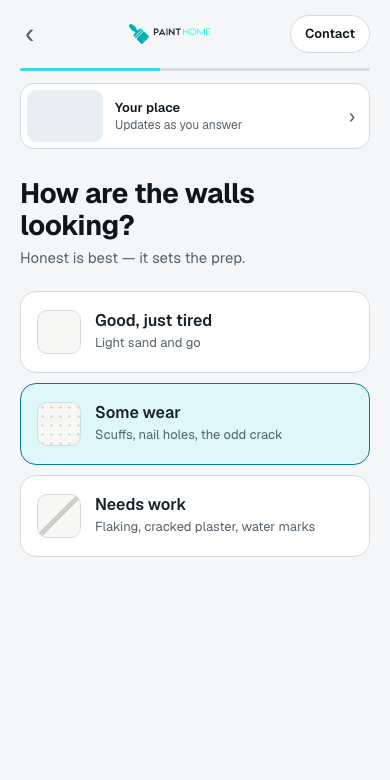
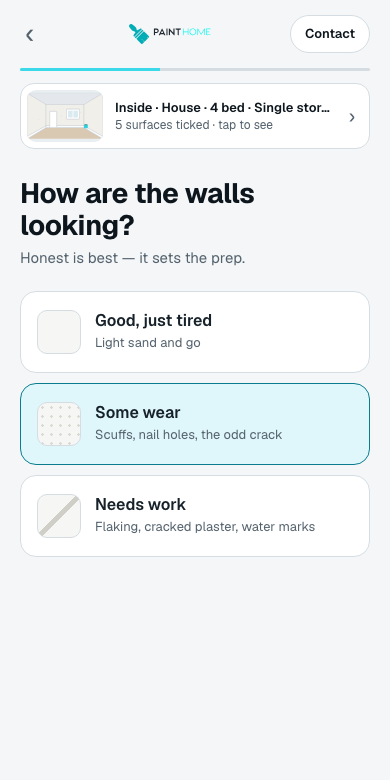
Wizard mobile v5 S3: the sweep test waits for the arrival sweep

Changed region(s): [[0.2769, 0.1231, 0.8308, 0.1846], [0.0923, 0.1538, 0.2462, 0.1846]]

diff --git a/e2e/customer-journey/wizard-mobile-v5-strip.spec.ts b/e2e/customer-journey/wizard-mobile-v5-strip.spec.ts
@@ -131,10 +131,10 @@ test.describe("Wizard mobile v5 — the live strip, thumbnail and roller (sessio
     });
     await open(page);
     await toSurfaces(page);
-    // everything ticked: every painted layer is fully in
+    // everything ticked: on arrival the painted layers sweep in (unpainted before this screen, §3.5), then sit fully in
     for (const k of ["walls", "ceilings", "skirting", "doors", "windows"]) {
       await expect(thumb(page).locator(`[data-surf='${k}']`)).toHaveAttribute("data-on", "true");
-      expect(await rectWidth(page, "wzm-thumb", k)).toBe(200);
+      await expect.poll(() => rectWidth(page, "wzm-thumb", k), { timeout: 3_000 }).toBe(200);
     }
     await page.getByTestId("ql-surface-ceilings").tap();
     await expect(page.getByTestId("wzm-sheet")).toHaveCount(0);

diff --git a/docs/briefs/estimator-v2-progress.md b/docs/briefs/estimator-v2-progress.md
@@ -68,6 +68,7 @@
 | M5 · S0 | Wizard mobile v5 — orientation (`docs/briefs/claude-code-brief-wizard-mobile-v5.md`, `build-plan-wizard-mobile-v5.md`, prototype `docs/mockups/painthome-wizard-v5.html`) | DONE | 27 Oct 2026 | branch `feat/wizard-mobile-v5` | none | — | 4150 → 4150 | D10–D14, D3, D4 open (defaults taken) | Brief §0 references, located: the step components are `app/wizard/WizardApp.tsx` (the quick look; served to customers by `app/estimate/page.tsx`, order from `lib/wizard/quick-look.ts stepsFor`); the gate is `app/wizard/Reveal.tsx`; `.wz-rv-dock` is `app/wizard/wizard.css` (base rule `display:none`, fixed bar under 900px); the floating pill is `app/wizard/TalkCard.tsx` (`.wz-talk`, a phone pill since 25 Oct); the sticky picture panel is `app/wizard/PictureCard.tsx` with `pictures/RoomPicture.tsx`, `HousePicture.tsx`, `OutsideHousePicture.tsx` (`.wz-side` / `.wz-pic`); the bigger-job condition is `lib/wizard/brand.ts paintHomeTier` (`wizard_policy.paintHomeCapCents`, $25,000) read by `Reveal.tsx handoffLocked`; brand tokens are `lib/wizard/brand.ts`, `brandServer.ts`, `lib/messaging/brand.ts`, `lib/marketing/brand.ts`; the zone-slot API is `lib/visits/wizard.ts wizardVisitSlots` → `lib/visits/book.ts offeredVisitWindows` / `bookWindow` (labels + window keys; `lib/visits/schedule.ts availability` holds the pre-set zone days); the messaging adapter's SMS call is `lib/messaging/send.ts sendSms`; the `crm_events` emitter is `lib/crm/events.ts logCrmEvent` (zod catalogue, `crm_log_event` RPC). The v1/v2 mobile briefs are NOT in the repo (superseded; v1 B1 is taken from v5's words). Built in a worktree off `~/pgp-painthome` — the main checkout's git hangs on iCloud. |
 | M5 · S1 | Skeleton: brand guard, desktop dock, events | DONE | 27 Oct 2026 | branch `feat/wizard-mobile-v5` (PR for Tom) | none | — | 4150 → 4158 | — | **(1) Brand.** `wizard_drafts.brand` / `estimates.brand` and the host → brand read already existed (20270300, `brandServer.ts`); the guard is `lib/wizard/brandGuard.test.ts`, a per-file ratchet over the literal "Paint Group" outside comments across `app/wizard`, `app/estimate`, `lib/wizard` (nine listed mentions, each with its reason). It found three leaks: the wizard chat panel (`ChatWidget.tsx` — aria-label and every reply labelled Paint Group), the assist chat's hand-off line (`AssistView.tsx`) and its panel (`AssistantWidget.tsx`) — all now take `brandName`, from `WizardApp`'s one `brandName` or the new `wizardBrandName()` in `brandServer.ts`. e2e `painthome-wizard.spec.ts` test 1 now asserts the WHOLE Paint Home price page names no Paint Group. **(2) The dock (v1 B1).** `.wz-rv-dock` lives inside the range card (`Reveal.tsx`): `display:flex` under the ladder on a laptop, still the fixed bottom bar under 900px; absent on the hand-off (27 Oct ruling). **(3) Events (brief §8).** Six new types in `lib/crm/events.ts` (`wizard_step_viewed`, `surface_toggled`, `gate_viewed`, `gate_cta_clicked`, `contact_opened`, `scope_viewed`) + `visit_booked` gains `step` / `from` / `sessionId`; the timeline labels them. The browser writes through `POST /api/wizard/event` (`lib/wizard/wizardEvents.ts` holds the schemas and `sendWizardEvent`; the session is the caller's open draft, pinned server-side, every event deduped per session so the rates count sessions, never taps; 204 always). Emitted from `WizardApp` (step viewed per quick step; `contact_opened` from the talk bar; the one-shot sessionStorage mark on the way to the scope), `Reveal` (`gate_viewed` on screen; every door → `gate_cta_clicked` exact / visit / call / message; Keep → save) and `ScopeEditor` (`scope_viewed {from:'gate'}` from the mark). The home dashboard's "Where estimates go" draws `funnel-rates` — gate → exact price and Contact → booked, in sessions, per shopfront when split — from `buildWizardRates` (`lib/reporting/metrics/funnel.ts`; slice `wizardEvents` read in `load.ts`). `surface_toggled` has no emitter yet (the chips are S3's); `visit_booked {from:'contact'}` is written in S5, so contact → booked reads 0 until then. Not verified in a browser (the worktree has no `.env.local`); the e2e proof is the PR run. **Next: S2, the mobile shell.** |
 | M5 · S2 | Mobile shell and screens (brief §2; plan Session 2) | BUILT | 28 Oct 2026 | branch `feat/wizard-mobile-v5-s2` (cut from `feat/wizard-mobile-v5`; PR for Tom) | none | — | 4158 → 4173 | ⚑ NEW D15: the details button — the brief enables Show my range on name + 10-digit mobile, but the server's gate (`/api/wizard/submit` `gate_required`) still demands an email, so the phone asks for all three until Tom changes that rule (a server + policy change, not S2's) | **The shell.** Under 768px (`WizardApp useMobile` — the `(max-width: 767px)` query through `useSyncExternalStore`, desktop until hydration) a customer's quick look is `app/wizard/MobileQuickLook.tsx`: back chevron · logo · **Contact** pill (opens the talk sheet — a call on Paint Home, a site visit on Paint Group — and writes `contact_opened {step: <screen>}`; the Contact sheet is S5), the 3px bar (`mobileProgress`: index / question screens × 55, the gate at 55), the live strip's PLACE (`.wzm-strip`, a static placeholder — S3 draws the thumbnail, the ribbon and the sheet in it), one question per screen, single choices advancing themselves 250ms after the tap (D10 default), a bottom bar (`.wzm-foot`, safe-area padded) only on surfaces, rooms, details and on a step the phone does not split. **The screens are data:** `lib/wizard/mobileScreens.ts mobileScreensFor(steps, quick)` lays what · property · beds · storeys · job · surfaces · rooms · colours · condition · living · details over `stepsFor()`, which stays the order of record — `page`, `quickNext` (validation, autosave tag, submit) and `quickBack` are untouched; the shell keeps which screen of the step is showing (state + `localStorage pg-wizard-mobile-screen-v1`, so a reload and Welcome back land on the same screen). Skip rules: storeys for a unit; an outside job is place → the exterior brief's screens AS THEY ARE (§2.4: home · paint · about · sides, through `QuickLook shell="mobile"` — no nav, no talk card, no Your job so far; the drawn house stays above the question, static, because it is the paint step's control until S3's strip takes over). Brief §2's Outside beds/storeys/surfaces screens are therefore NOT built — the exterior brief governs. **Answers (§2.6, data model unchanged):** `applyJobChoice` pre-ticks the surfaces (Doors, windows and trims = skirtings, doors, windows; the architraves chip offered unticked; Some rooms = the first two starter rooms), surface chips write `excluded` (+ `changing` via `changingForScope`), the three colour answers read/write the colour tiles (`colourChoiceOf` / `applyColourChoice`; bold is never asked on a phone), the rooms screen lists the STARTER names (so the submit finds them — "Landing & stairs", not the brief's "Stairwell, Upstairs hall") with Study / Ensuite / Garage as added rooms and the desktop's add-room control as "+ Another room". `wizard_step_viewed {step: <screen>, breakpoint: mobile}` per screen (WizardApp's per-step emitter stands down on a phone). **Gone on a phone:** the sticky picture panel and the floating pill (interior path); desktop renders none of this. **Specs:** `e2e/customer-journey/wizard-mobile-v5.spec.ts` (390 × 780, anonymous, painthome.localhost — §9 items 1–3, the Unit and Outside skip rules, Back, reload, the events, a range from the phone's screens); the e2e drive (`quickNext` / `driveNoPlanWizard`) walks the phone's screens when the shell is up (`onMobileShell`, `driveMobileQuickLook`); the four phone-width specs v5 supersedes were rewritten (wizard-phone-pictures now runs at 800px, the band's remaining home; exterior-v2-home's phone test; ui-refresh-steps' 390 and iPhone tests; address-handoff; painthome-wizard). `e2e/_look-wizard-desktop.spec.ts` (env `WIZARD_DESKTOP_SHOTS`) is the 1470px scope-guard screenshot tool. e2e on C1 (28 Oct): wizard-mobile-v5 4/4, exterior-v2-home 8/8, wizard-phone-pictures 1/1, address-handoff 3/3, ui-refresh-steps 44/44, r5-editor 4/5 (the range-width test is red at DESKTOP width, 17 → 17 → 17 — same list red on main's own e2e job, run 40571676667; not this change), painthome-wizard 2/3 — test 1 is red on main too: Paint Home's "Confirm my price. Book a call" is refused by `lib/visits/requests.ts` (`speakWithUsFor`, Paint Group's speak caps; the Paint Home tier is never consulted) — ⚑ a follow-up, not S2's. Desktop diff: seven 1470px screenshots (start · place · job · rooms · condition · gate · range) BYTE-IDENTICAL to `feat/wizard-mobile-v5` (c350d468), `e2e/_look-wizard-desktop.spec.ts` on both builds. Help: `docs/help/estimator/customer.md` "On a phone". **Next: S3, the live strip, thumbnail and roller** (the strip's place, `.wzm-strip` in `MobileQuickLook.tsx`, is where it goes; `surfacesTicked()` already counts for the ribbon). |
+| M5 · S3 | Live strip, thumbnail and roller (brief §3; plan Session 3) | BUILT | 28 Oct 2026 | branch `feat/wizard-mobile-v5-s3` (off main after #404; PR for Tom) | none | — | 4173 → UNIT_AFTER | — | **One picture, drawn twice.** `lib/wizard/mobilePicture.ts pictureStateFor(quick, outside, surfacesReached)` → `app/wizard/pictures/MobilePicture.tsx` in the strip (`app/wizard/MobileStrip.tsx`, 76 × 52 beside the ribbon and chevron) and in the sheet (5:3, caption, the same chips). The drawings are the PROTOTYPE's 200 × 120 room and house (the prototype wins over §3.1's "the desktop SVGs"; S6 can lift the layers onto the desktop picture if D14 = build). Variants from the answers: unit (block, balconies, three window rows), townhouse (split, two doors), two storeys (second row), the three wall tints (`WALL_TINT`), the two condition marks; unpainted before the surfaces screen, ticks kept after it (§3.5). **The roller:** each surface = base + painted layer clipped by a rect; a tick sweeps the width 0 → 200 over ~520 ms (ease-out cubic) from rAF with the glyph at the surface's mid-height; untick wipes back; each copy owns its frames (§3.3, the v4 bug); React never writes the width — effects do — so a re-render mid-sweep cannot reset it; reduced motion snaps. **Ribbon** `ribbonFor` (§2.2): the answers of the screens PASSED, " · "-joined; line 2 "N surfaces ticked · tap to see" from the surfaces screen, "N parts ticked" outside, else "Updates as you answer · tap to see". **Outside** (§2.4): the house from `v2.parts` grouped onto six surfaces (`OUTSIDE_SURFACE_PARTS`: walls+gable, fascias+eaves, gutters+downpipes, windows+shutters, doors+garage, verandah+posts+ceiling+handrail); the sheet's chips toggle a group's first part through `togglePart`; the shape picks the variant (ds → two, th/terrace → townhouse, unit → block). `surface_toggled {surface, on}` from the step's chips and the sheet's (the exterior part's key outside). **Proof:** E2E_RESULT. Desktop diff: DESKTOP_RESULT. Variant screenshots: `docs/wizard-mobile/variants/`. Help: customer.md "On a phone" updated. **Next: S4, the gate** (Reveal on a phone: blocks 1–6, no picture, the tiles, the sticky bar; the strip is hidden there by nature — the gate is a different screen). |
 
 ## Rulings recorded (so they are never re-asked)
 

diff --git a/docs/ARCHITECTURE.md b/docs/ARCHITECTURE.md
@@ -5001,3 +5001,5 @@ Tom: "the messages still aren't clearer". `composeUpdate` in `lib/workorder/upda
 **Wizard mobile v5 — session 1 (27 Oct 2026; brief `docs/briefs/claude-code-brief-wizard-mobile-v5.md`, plan `build-plan-wizard-mobile-v5.md`, prototype `docs/mockups/painthome-wizard-v5.html`).** The skeleton under the mobile rebuild. **Brand guard:** `lib/wizard/brandGuard.test.ts` is a per-file ratchet over the literal "Paint Group" (outside comments) across `app/wizard`, `app/estimate` and `lib/wizard` — nine deliberate mentions are listed with their reasons; a new one fails the suite. The chat panels it caught now take `brandName` (`ChatWidget.tsx`, `AssistView.tsx`, `AssistantWidget.tsx`; `wizardBrandName()` in `lib/wizard/brandServer.ts`). **The dock:** `.wz-rv-dock` is rendered inside the range card in `Reveal.tsx`, a static button on a laptop and the fixed bottom bar under 900px (it was hidden on desktop); never on the hand-off. **Events (brief §8):** `lib/crm/events.ts` gains `wizard_step_viewed`, `surface_toggled`, `gate_viewed`, `gate_cta_clicked`, `contact_opened`, `scope_viewed`, and `visit_booked` carries `step` / `from` / `sessionId`. The customer's browser writes them through `POST /api/wizard/event` (`lib/wizard/wizardEvents.ts`: the zod shapes and `sendWizardEvent`; the route pins the session — the caller's open `wizard_drafts` row — and dedupes per session, so the dashboard counts sessions, never taps). Emitters: `WizardApp.tsx` (step viewed, Contact opened from the talk bar, the one-shot sessionStorage mark `markScopeFromGate`), `Reveal.tsx` (gate viewed; every door → `gate_cta_clicked`; Keep → `save`), `ScopeEditor.tsx` (`scope_viewed` from the mark). **Dashboard:** `buildWizardRates` in `lib/reporting/metrics/funnel.ts` (the funnel slice's `wizardEvents`, read in `load.ts`) feeds `FunnelCard`'s `funnel-rates` line — gate → exact price and Contact → booked — per shopfront when the funnel is split. No migration.
 
 **Wizard mobile v5 — session 2: the phone's shell (28 Oct 2026; brief `docs/briefs/claude-code-brief-wizard-mobile-v5.md` §2, plan `build-plan-wizard-mobile-v5.md`, prototype `docs/mockups/painthome-wizard-v5.html`).** Under 768px (`WizardApp useMobile`: the `(max-width: 767px)` media query through `useSyncExternalStore`, desktop until hydration) a customer's quick look is `app/wizard/MobileQuickLook.tsx` — back chevron · logo · **Contact** pill, a 3px bar, the live strip's place (session 3 draws the thumbnail and ribbon), one question per screen, single choices advancing themselves ~250ms after the tap (R7/D10), a bottom bar only on surfaces, rooms, details and on a step the phone does not split (safe-area padded). The screens are DATA: `lib/wizard/mobileScreens.ts mobileScreensFor(steps, quick)` lays the eleven screens (what · property · beds · storeys · job · surfaces · rooms · colours · condition · living · details) over `stepsFor()`, which stays the order of record — WizardApp's `page`, `quickNext` (validation, autosave tag, submit) and `quickBack` are untouched; the shell only keeps which screen of the step is showing (state + `localStorage pg-wizard-mobile-screen-v1`, so a reload and "Welcome back" land on the same screen). Skip rules: storeys for a unit; an outside job goes place → the exterior brief's screens as they are (§2.4), rendered through `QuickLook shell="mobile"` (no nav, no talk card, no "Your job so far"; the drawn house stays, static). The answers are the quick look's (`QuickLook`): the job pre-ticks its surfaces (`applyJobChoice`: Doors, windows and trims = skirtings, doors, windows; Some rooms = the first two rooms), the surface chips write `excluded`, the three colour answers read and write the colour tiles (`colourChoiceOf` / `applyColourChoice`; bold is never asked on a phone), the rooms screen lists the starter names with Study / Ensuite / Garage as added rooms. `wizard_step_viewed {step: <screen>, breakpoint: mobile}` and `contact_opened {step: <screen>}` are written per screen. The details button needs name + 10-digit mobile + email — the server's gate (`/api/wizard/submit gate_required`) still asks for the email, so the brief's name-and-mobile-only button waits on that rule (⚑ in the ledger). The sticky picture panel and the floating pill are gone on a phone; desktop renders none of this (proved by `e2e/_look-wizard-desktop.spec.ts` screenshots at 1470px, byte-identical before and after). The e2e drive (`driveNoPlanWizard` / `quickNext`) walks the phone's screens when the shell is up; `e2e/customer-journey/wizard-mobile-v5.spec.ts` is the contract.
+
+**Wizard mobile v5 — session 3: the live strip, the thumbnail and the roller (28 Oct 2026; brief §3).** The strip under the phone's progress bar is `app/wizard/MobileStrip.tsx`: a 76 × 52 thumbnail, the ribbon and a chevron; a tap opens a bottom sheet (`.wz-sheetback` / `.wz-sheet`, the S8 sheet pattern) with the same picture at 5:3, the caption and the same surface chips as the step. The picture is ONE state, `lib/wizard/mobilePicture.ts pictureStateFor(quick, outside, surfacesReached)` — Inside → the room, Outside → the house; unit / townhouse / two storeys / the three wall tints (`WALL_TINT`) / the two condition marks from the answers; unpainted before the surfaces screen, the ticks kept after it — drawn twice by `app/wizard/pictures/MobilePicture.tsx` (the prototype's 200 × 120 drawings, as the prototype wins over brief §3.1's "the desktop SVGs"; session 6 may lift the layers onto the desktop picture). Every surface is a base layer plus a painted layer clipped by a rect; a tick sweeps the rect 0 → 200 over ~520 ms (ease-out cubic) from `requestAnimationFrame` with the roller glyph riding the edge, each rendered copy owning its own frames; React never writes the rect's width (effects do), and `prefers-reduced-motion` snaps. The ribbon is `ribbonFor` (§2.2: the answers of the screens passed, joined with " · "; "N surfaces ticked · tap to see" from the surfaces screen on; "N parts ticked" on an outside job). Outside draws from the exterior brief's `v2.parts` grouped onto six surfaces (`OUTSIDE_SURFACE_PARTS`); the sheet's chips toggle each group's first part through `togglePart`. `surface_toggled {surface, on}` is written from the step's chips and the sheet's. Contract: `e2e/customer-journey/wizard-mobile-v5-strip.spec.ts`.

diff --git a/docs/help/estimator/customer.md b/docs/help/estimator/customer.md
@@ -3,7 +3,7 @@ feature: estimator
 role: customer
 title: Get a painting price online, in about two minutes
 summary: A few quick screens give you a guide range; then you can tighten it room by room or side by side, and send it to your estimator to fix the price — or book a visit at any point.
-sources: app/estimate/page.tsx, app/wizard/WizardApp.tsx, app/wizard/QuickLook.tsx, app/wizard/MobileQuickLook.tsx, app/wizard/PictureCard.tsx, app/wizard/Reveal.tsx, app/estimate/scope/ScopeEditor.tsx, app/estimate/scope/SidesEditor.tsx, app/estimate/finish/Finish.tsx, app/estimate/sent/Sent.tsx
+sources: app/estimate/page.tsx, app/wizard/WizardApp.tsx, app/wizard/QuickLook.tsx, app/wizard/MobileQuickLook.tsx, app/wizard/MobileStrip.tsx, app/wizard/pictures/MobilePicture.tsx, app/wizard/PictureCard.tsx, app/wizard/Reveal.tsx, app/estimate/scope/ScopeEditor.tsx, app/estimate/scope/SidesEditor.tsx, app/estimate/finish/Finish.tsx, app/estimate/sent/Sent.tsx
 verified_at_commit: bb273c9122
 ---
 
@@ -33,20 +33,20 @@ Have the address handy and know roughly what you want painted — inside, outsid
 ## On a phone
 On a phone (any screen narrower than about 770px) the same questions come one at a time, each on its own screen, so a thumb can answer them. Nothing you answer on a phone is different from a laptop — only the way it is laid out.
 
-1. The top of every screen is the same: a **‹** back chevron on the left (it retraces your screens one at a time; it is hidden on the first), the logo in the middle, and **Contact** on the right. Under them a thin bar fills as you go, and a strip for a picture of your job — on this version it is a placeholder that will show your home as you answer.
+1. The top of every screen is the same: a **‹** back chevron on the left (it retraces your screens one at a time; it is hidden on the first), the logo in the middle, and **Contact** on the right. Under them a thin bar fills as you go, and a strip with a small picture of your job beside a line of your answers so far ("Inside · House · 3 bed · Two storeys …"). The picture is the room for an inside job and the house for an outside one; it follows your answers — a unit or apartment is a block, a townhouse a pair, two storeys adds a window row, the colours tint the walls and the condition marks them. Tap the strip to see it full width with the same surface chips.
 2. **What are we painting?** — your address sits in a chip with **Change** (tap it to type a different address; if the address came through as words only, the suburb and postcode boxes appear here). Tap **Inside** or **Outside**.
 3. **What kind of place is it?** — House, Townhouse, Unit or apartment. A single-choice screen like this moves on by itself a moment after you tap; there is no Continue button to find.
 4. **How many bedrooms?** — 1 to 5+. This builds your room list for you.
 5. **One storey or two?** — skipped for a unit or apartment.
 6. **What's the job?** — The whole interior, Some rooms, or Doors, windows and trims.
-7. **What's being painted?** — the surfaces as chips, pre-ticked from the job you chose (Doors, windows and trims pre-ticks skirtings, doors and window frames only). Untick anything we are not painting, then **Continue**.
+7. **What's being painted?** — the surfaces as chips, pre-ticked from the job you chose (Doors, windows and trims pre-ticks skirtings, doors and window frames only). Each tick rolls that surface's paint on in the little picture (and off again when you untick); the strip's second line counts the surfaces ticked. Untick anything we are not painting, then **Continue**.
 8. **We're painting these rooms** (or **Which rooms?** after Some rooms, which pre-ticks the first two) — the rooms we have guessed from your bedrooms and storeys, each a chip you can untick; Study, Ensuite and Garage are offered unticked; **+ Another room** adds one by name. **Continue** waits until at least one room is ticked.
 9. **Colours?** — New colours, Same colours, or Still deciding (priced as new colours).
 10. **How are the walls looking?** — Good, just tired · Some wear · Needs work.
 11. **Anyone living there while we paint?** — No, it'll be empty · Yes, we'll be there.
 12. **Where shall we send your range?** — your name, mobile and email, and an optional offers tick. **Show my range** lights up once the three are in; your range appears instantly on the next screen, exactly as it does on a laptop.
 
-- **Outside** on a phone asks the place, then the outside questions as they are (what kind of home, what we are painting, about it, each side) with a **Continue** bar under each — the drawn house sits above the question.
+- **Outside** on a phone asks the place, then the outside questions as they are (what kind of home, what we are painting, about it, each side) with a **Continue** bar under each — the drawn house sits above the question, and the strip's small house paints in the parts you tick (walls, eaves and fascia, gutters and downpipes, window frames, doors, verandah); the strip's chips tick those parts too.
 - **Back** keeps every answer, and so does closing the page: come back on the same phone and **Welcome back** lands you on the screen you left, with your answers in place. **Start again** clears them.
 - **Contact** opens the same options as the laptop's talk-it-through bar: request a call (or a site visit on the Paint Group site), ring us, or send a message.
 
@@ -77,6 +77,7 @@ On a phone (any screen narrower than about 770px) the same questions come one at
 
 ## Changes on 28 Oct 2026
 - **On a phone the quick look is one question per screen** — see *On a phone* above. The picture panel pinned under the step bar and the floating talk-it-through pill are gone on phones; the laptop layout is unchanged.
+- **The strip under the bar shows your place** — a small picture that paints each surface in as you tick it, with your answers so far beside it; tap it for the full-width picture and the same chips.
 
 ## Changes on 27 Oct 2026
 - **On Paint Home, a job over the phone-close ceiling** shows the "bigger than we can price from your phone" screen with Book a site visit and Send us a message only; the editor is not offered there.
